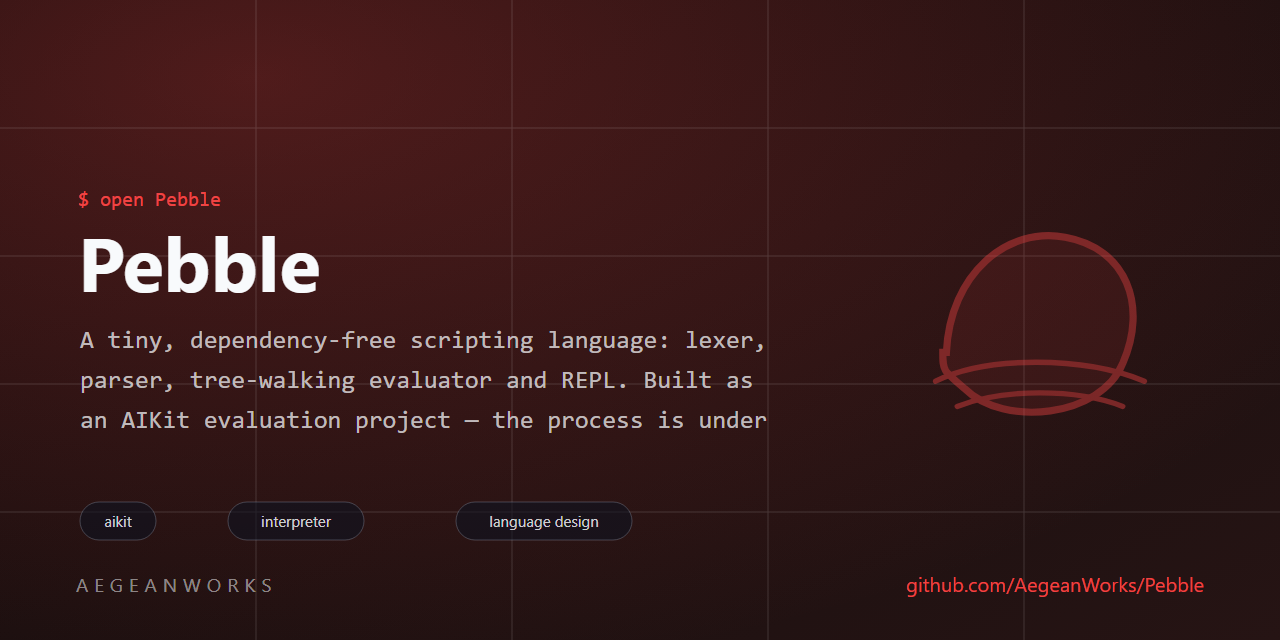
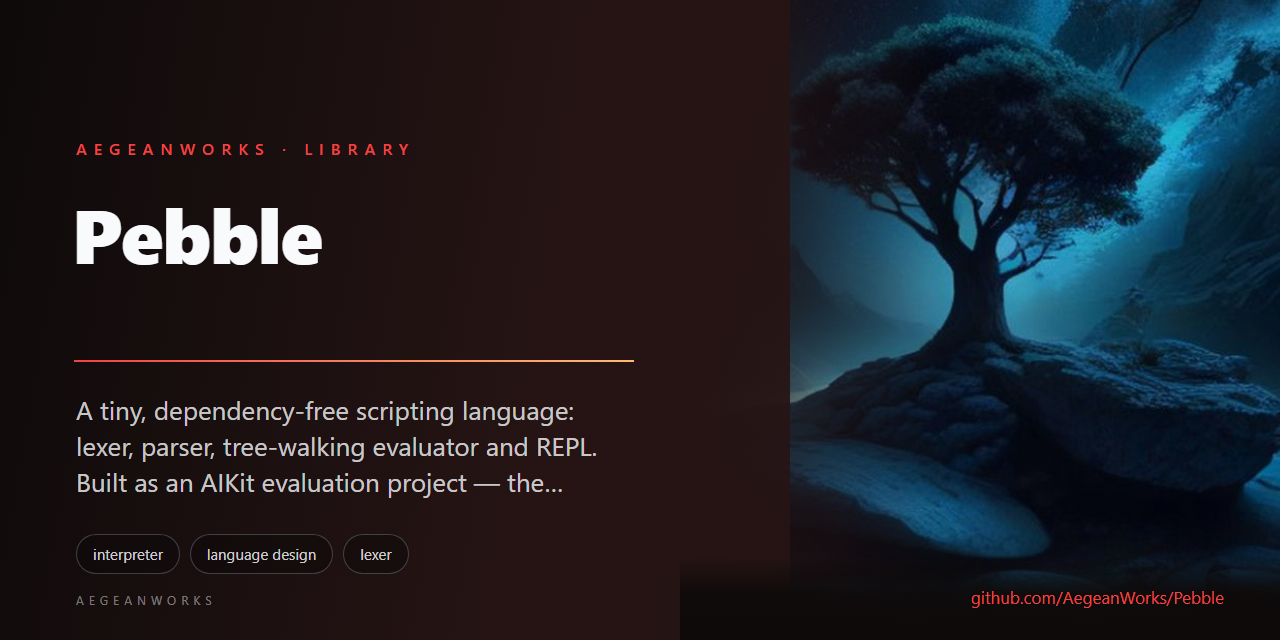
feat(brand): replace procedural marks with reviewed AI-art identities

diff --git a/README.md b/README.md
@@ -1,8 +1,8 @@
 # pebble
 
 <!-- aegean:media:start -->
-<p align="center"><img src="assets/logo.svg" alt="Pebble logo" width="96" height="96"></p>
-<p align="center"><img src="assets/social-preview.svg" alt="Pebble social preview" width="100%"></p>
+<p align="center"><img src="assets/logo.png" alt="Pebble logo" width="96" height="96"></p>
+<p align="center"><img src="assets/social-preview.png" alt="Pebble social preview" width="100%"></p>
 <!-- aegean:media:end -->
 
 [![Built with AIKit](https://img.shields.io/badge/built%20with-AIKit-6f42c1)](https://github.com/AegeanWorks/AIKit)
